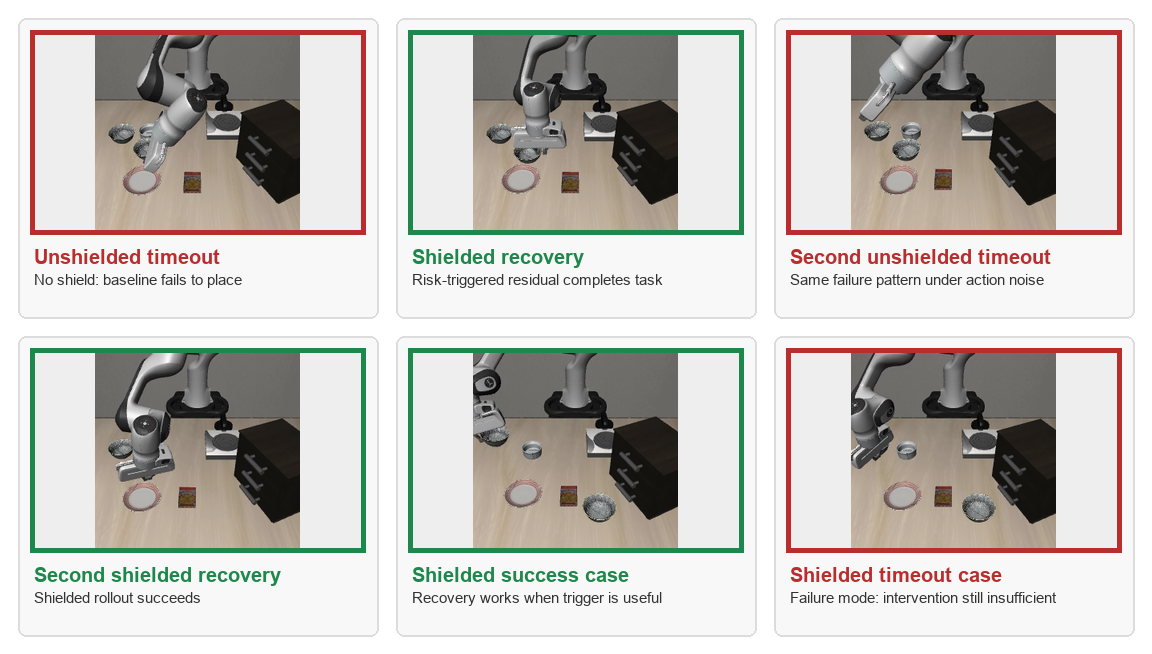
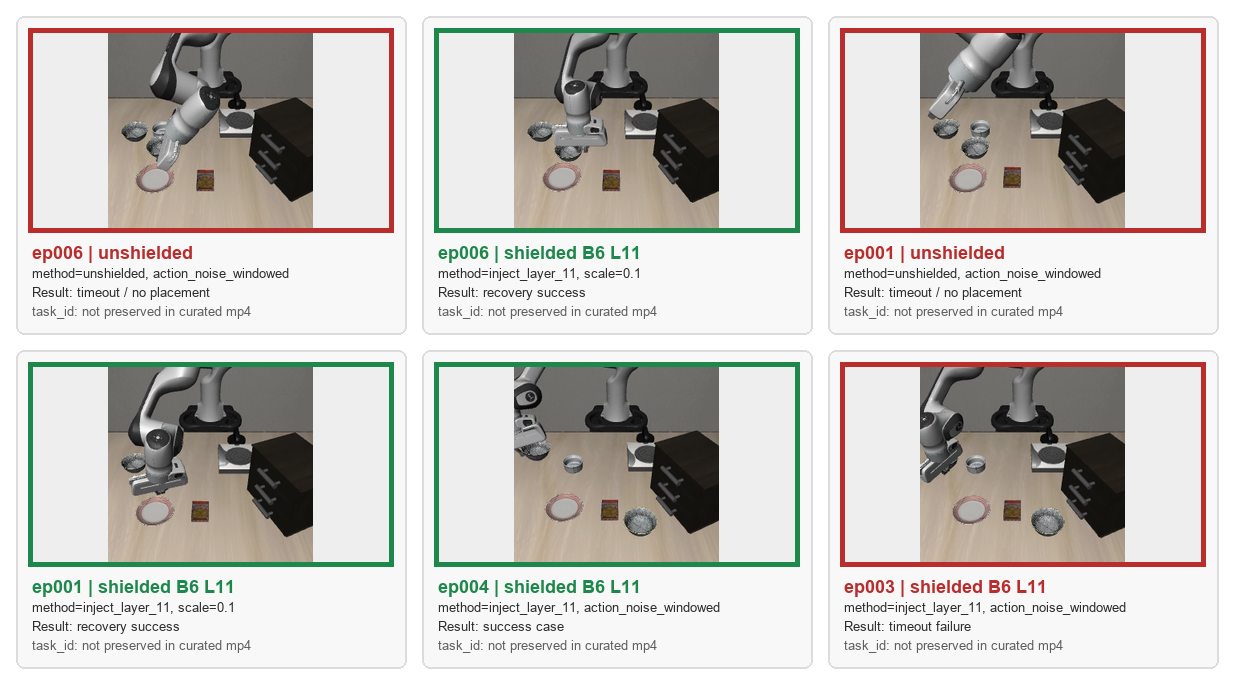
Add phase3 clip provenance table

Changed region(s): [[0.0, 0.0, 1.0, 0.9786]]

diff --git a/index.html b/index.html
@@ -245,6 +245,65 @@
           <figcaption><strong>Paired rollout evidence.</strong> Two action-noise cases where the unshielded policy times out but B6 layer-11 shielding completes the task.</figcaption>
         </figure>
 
+        <div class="table-wrap">
+          <h3>How to Read the Qualitative Clips</h3>
+          <table>
+            <thead>
+              <tr>
+                <th>Case</th>
+                <th>Method</th>
+                <th>Perturbation</th>
+                <th>Episode</th>
+                <th>Task id</th>
+                <th>Result</th>
+              </tr>
+            </thead>
+            <tbody>
+              <tr>
+                <td>ep006 unshielded</td>
+                <td>unshielded SmolVLA</td>
+                <td>action_noise_windowed</td>
+                <td>006</td>
+                <td>not preserved in curated mp4</td>
+                <td>timeout / no placement</td>
+              </tr>
+              <tr>
+                <td>ep006 shielded</td>
+                <td>B6 inject_layer_11, scale 0.1</td>
+                <td>action_noise_windowed</td>
+                <td>006</td>
+                <td>not preserved in curated mp4</td>
+                <td>recovery success</td>
+              </tr>
+              <tr>
+                <td>ep001 unshielded</td>
+                <td>unshielded SmolVLA</td>
+                <td>action_noise_windowed</td>
+                <td>001</td>
+                <td>not preserved in curated mp4</td>
+                <td>timeout / no placement</td>
+              </tr>
+              <tr>
+                <td>ep001 shielded</td>
+                <td>B6 inject_layer_11, scale 0.1</td>
+                <td>action_noise_windowed</td>
+                <td>001</td>
+                <td>not preserved in curated mp4</td>
+                <td>recovery success</td>
+              </tr>
+              <tr>
+                <td>ep003 shielded</td>
+                <td>B6 inject_layer_11, scale 0.1</td>
+                <td>action_noise_windowed</td>
+                <td>003</td>
+                <td>not preserved in curated mp4</td>
+                <td>timeout failure</td>
+              </tr>
+            </tbody>
+          </table>
+          <p class="note">Task-level success rates are taken from the archived W&amp;B/CSV logs. The curated video filenames preserve episode/outcome labels but not exact task ids.</p>
+        </div>
+
         <h3>Paired Rescue Cases</h3>
         <div class="demo-grid">
           <figure class="video-card">

diff --git a/README.md b/README.md
@@ -51,7 +51,8 @@ Current page status:
 - Poster QR code points to `https://github.com/TinaLand?tab=repositories`.
 - The online demo section includes a rotated qualitative outcome gallery, paired
   B6 layer-11 rescue videos, shielded success/failure clips, and reference task
-  success/failure clips.
+  success/failure clips. The clip table records method, perturbation, episode,
+  outcome, and notes that task ids are not preserved in the curated mp4 names.
 - The experiment tables use the final poster Phase 3 framing: post-retrain
   B6 layer-11 shielding rescues harder action-noise tasks, but easy/high-baseline
   tasks expose the current gating problem. The page frames this as: residual

diff --git a/EXPERIMENT_SUMMARY.md b/EXPERIMENT_SUMMARY.md
@@ -205,6 +205,9 @@ Qualitative demo videos:
   with rotated snapshots and explicit shield/recovery/failure labels.
 - `assets/phase3_video_rescue_comparison.png` is the paired-rescue thumbnail
   summary for the poster and website.
+- The website clip table records method, perturbation, episode, result, and
+  the provenance caveat that exact task ids are not preserved in the curated
+  mp4 filenames; task-level numbers come from W&B/CSV logs.
 
 Interpretation:
 
